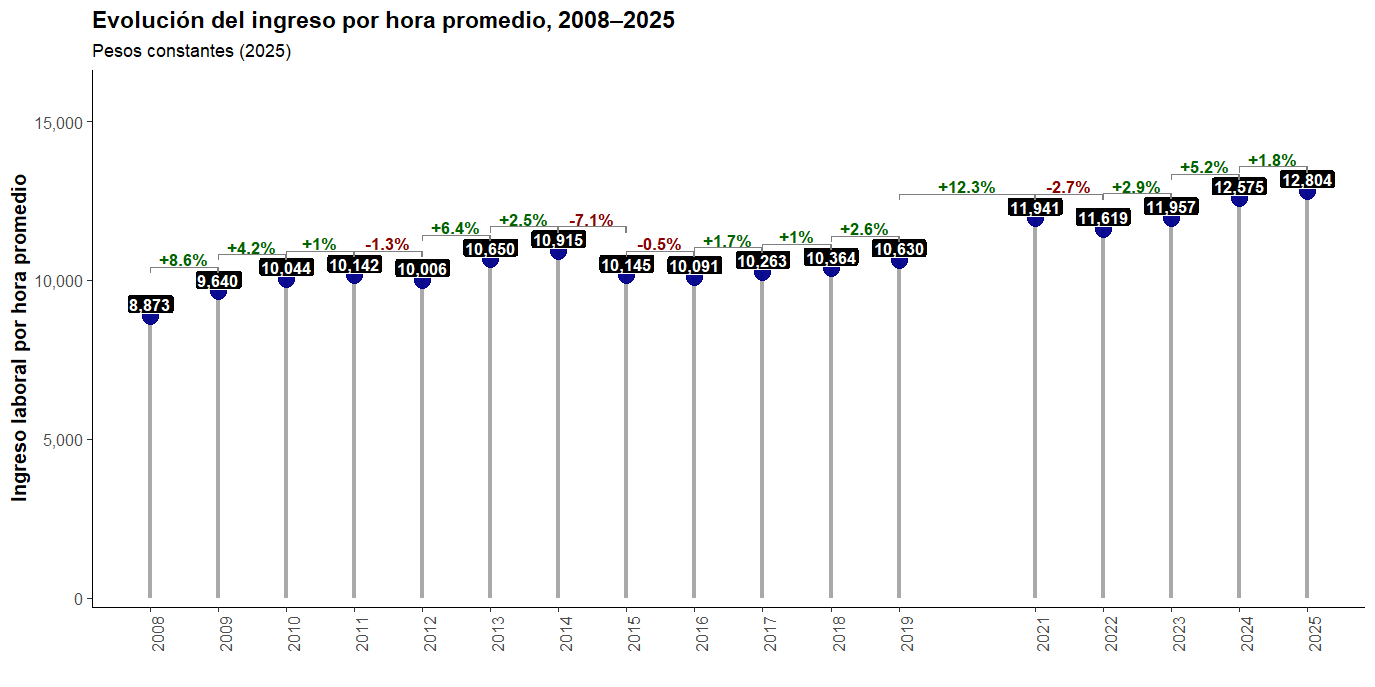
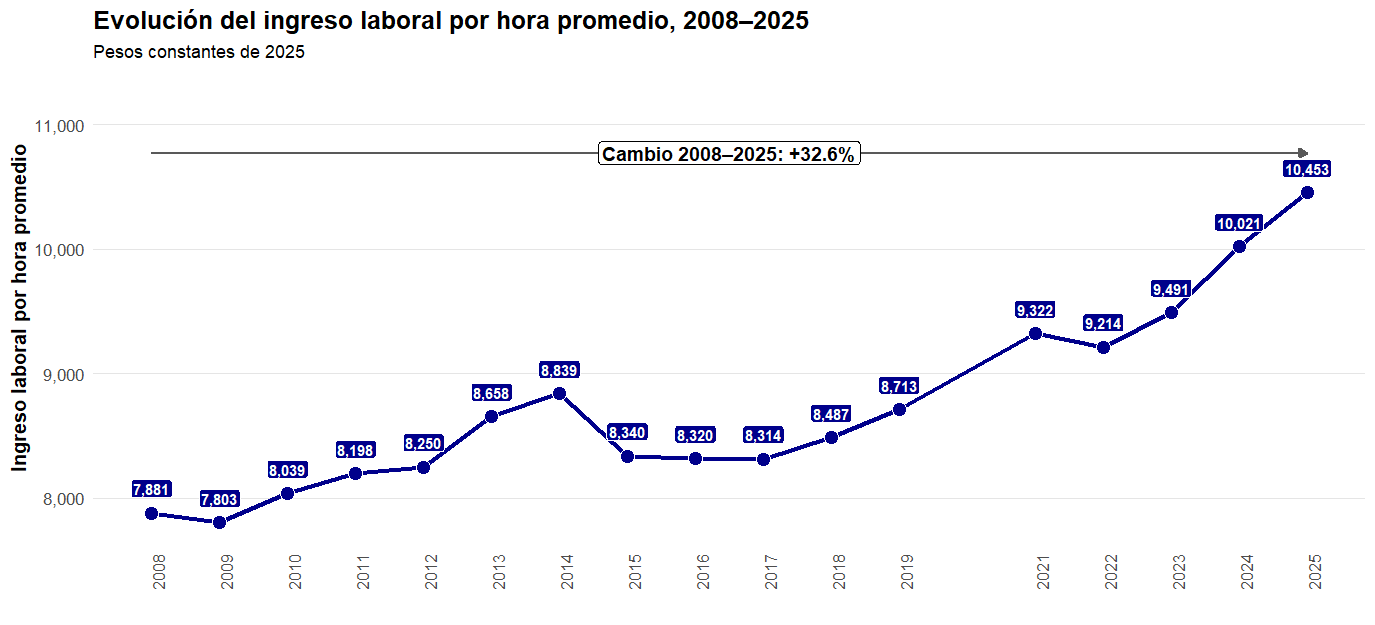
Minor edits

diff --git a/Paper/sections/CuerpoInforme.tex b/Paper/sections/CuerpoInforme.tex
@@ -1,0 +1,114 @@
+\newpage
+\section{Historia del mercado laboral colombiano}
+
+\begin{figure}[htbp]
+  \centering
+  \includegraphics[width=0.9\textwidth]{Paper/figures/fig1Informe.png}
+  \caption{Evolución general del ingreso laboral}
+  \label{fig:1Informe}
+\end{figure}
+
+El ingreso laboral promedio por hora pasó de $7.881 en 2008 a $10.453 en 2025, un aumento real del 32,6\%. Eso es una buena noticia: los trabajadores colombianos en promedio sí ganaron más poder adquisitivo a lo largo del período.
+Sin embargo, el camino no fue lineal. Hubo un primer ciclo de crecimiento hasta 2014, luego un estancamiento notable entre 2015 y 2019, y finalmente una aceleración importante a partir de 2021 que llevó los ingresos a sus niveles más altos del período. Este repunte reciente probablemente refleja una combinación de recuperación post-pandemia, ajustes al salario mínimo y cambios en la composición del empleo.
+
+\begin{figure}[htbp]
+  \centering
+  \includegraphics[width=0.9\textwidth]{Paper/figures/fig6Informe.png}
+  \caption{Ingreso laboral por nivel educativo}
+  \label{fig:2Informe}
+\end{figure}
+
+La educación sigue siendo el factor que más diferencia los ingresos. En 2025, un trabajador con nivel superior o universitario gana en promedio \$18.013 por hora, mientras que alguien sin ningún nivel educativo gana \$4.338, es decir, más de cuatro veces menos.
+Comparando 2008 con 2025, todos los niveles educativos muestran ganancias reales, lo cual es positivo. No obstante, hay un dato curioso: los trabajadores con nivel preescolar registraron una caída en su ingreso real (de \$7.642 en 2008 a \$4.541 en 2025). Esto probablemente refleja cambios en la composición de ese grupo más que un deterioro generalizado, pero vale la pena investigarlo más a fondo.
+La conclusión principal es que invertir en educación sigue siendo la palanca más poderosa para mejorar los ingresos laborales en Colombia.
+
+\begin{figure}[htbp]
+  \centering
+  \includegraphics[width=0.9\textwidth]{Paper/figures/fig7Informe.png}
+  \caption{Ingreso laboral por posición ocupacional}
+  \label{fig:3Informe}
+\end{figure}
+
+La posición que ocupa un trabajador dentro del mercado laboral también hace una diferencia enorme. En 2025, los empleados del gobierno son quienes mejor ganan (\$25.785 por hora), seguidos por los patrones o empleadores (\$22.291). En el extremo opuesto, los trabajadores domésticos y los cuenta propia tienen los ingresos más bajos, aunque todos los grupos muestran mejoras reales frente a 2008.
+Un dato destacado es el crecimiento del servicio doméstico: pasó de \$4.306 a \$6.506, un incremento de más del 50\% en términos reales. Esto posiblemente esté relacionado con los ajustes en la regulación laboral y los aumentos acumulados del salario mínimo durante el período.
+
+\begin{figure}[htbp]
+  \centering
+  \includegraphics[width=0.9\textwidth]{Paper/figures/fig4Informe.png}
+  \caption{Ingreso laboral por formalidad}
+  \label{fig:4Informe}
+\end{figure}
+
+\begin{figure}[htbp]
+  \centering
+  \includegraphics[width=0.9\textwidth]{Paper/figures/fig5Informe.png}
+  \caption{Brecha por formalidad}
+  \label{fig:5Informe}
+\end{figure}
+
+Esta es quizás una de las brechas más persistentes del mercado laboral colombiano. En 2025, un trabajador formal gana en promedio \$15.241 por hora, mientras que uno informal gana apenas \$6.271. Eso significa que los formales ganan aproximadamente 143\% más que los informales, una brecha que además ha crecido a lo largo del período (era del 113\% en 2008).
+Aunque el ingreso de los informales sí creció en términos reales (+11,1\%), lo hizo mucho más lentamente que el de los formales (+26,8\%). Esto sugiere que la formalización laboral no solo importa para el acceso a seguridad social, sino también para el nivel de ingresos.
+
+\begin{figure}[htbp]
+  \centering
+  \includegraphics[width=0.9\textwidth]{Paper/figures/fig11Informe.png}
+  \caption{Evolución informalidad laboral}
+  \label{fig:6Informe}
+\end{figure}
+
+En cuanto a la tasa de informalidad, hay una tendencia positiva: bajó del 66,9\% en 2008 al 55,1\% en 2025. Una reducción de casi 12 puntos porcentuales en 17 años es significativa, aunque el nivel sigue siendo muy alto. Más de la mitad de los trabajadores colombianos aún no cotiza a pensión.
+
+\begin{figure}[htbp]
+  \centering
+  \includegraphics[width=0.9\textwidth]{Paper/figures/fig9Informe.png}
+  \caption{Ingreso laboral por sector económico}
+  \label{fig:7Informe}
+\end{figure}
+
+Existe una marcada división entre sectores de altos y bajos ingresos. En la parte alta se encuentran los sectores extraterritoriales, información y comunicaciones, administración pública, financiero y educación. En la parte baja, sectores como agricultura, hogares empleadores, alojamiento y construcción.
+El sector de información y comunicaciones es el que más creció: casi triplicó su ingreso real entre 2008 y 2025 (de \$7.754 a \$21.868). Esto refleja la expansión de la economía digital y la creciente demanda de talento tecnológico, y es una señal clara de hacia dónde apunta el futuro del trabajo en Colombia.
+La agricultura, por su parte, sigue siendo el sector de menores ingresos, con apenas \$6.080 por hora en 2025.
+
+\begin{figure}[htbp]
+  \centering
+  \includegraphics[width=0.9\textwidth]{Paper/figures/fig8Informe.png}
+  \caption{Ingreso laboral por departamento}
+  \label{fig:8Informe}
+\end{figure}
+
+Las brechas regionales son evidentes. Bogotá D.C. lidera con un ingreso promedio de \$15.904 por hora en 2025, seguida por Antioquia (\$11.791) y Valle del Cauca (\$10.572). En el extremo opuesto, departamentos como Córdoba, Nariño y Bolívar tienen los ingresos más bajos, aunque todos registraron ganancias reales frente a 2008.
+Un dato interesante es que Caldas muestra uno de los mayores crecimientos proporcionales del período, lo que podría estar relacionado con su dinámica agroindustrial y de servicios. Las brechas entre el centro del país y las regiones periféricas persisten y son un desafío estructural importante.
+
+\newpage
+\begin{figure}[htb]
+  \centering
+  \includegraphics[width=0.9\textwidth]{Paper/figures/fig10Informe.png}
+  \caption{Ingreso laboral por tamaño de empresa}
+  \label{fig:9Informe}
+\end{figure}
+
+Como era de esperarse, las empresas más grandes pagan mejor. En 2025, las empresas de más de 100 empleados ofrecen un ingreso promedio de \$17.076 por hora, mientras que los trabajadores que laboran solos apenas alcanzan \$6.674.
+Hay además un cambio estructural relevante entre 2008 y 2025: la participación del empleo en empresas muy pequeñas (solo y 2-3 personas) cayó, mientras que la de las empresas grandes (101+) aumentó del 19\% al 25\%. Esto podría ser una señal positiva de consolidación empresarial, aunque también puede reflejar la formalización de sectores que antes operaban en la informalidad.
+
+\begin{figure}[htb]
+  \centering
+  \includegraphics[width=0.9\textwidth]{Paper/figures/fig2Informe.png}
+  \caption{Brecha de género}
+  \label{fig:10Informe}
+\end{figure}
+
+\begin{figure}[htb]
+  \centering
+  \includegraphics[width=0.9\textwidth]{Paper/figures/fig3Informe.png}
+  \caption{Brecha de género porcentual}
+  \label{fig:11Informe}
+\end{figure}
+
+Una de las noticias más llamativas del período es la evolución de la brecha salarial por género. En 2008, los hombres ganaban en promedio un 1,4\% más que las mujeres por hora. Para 2025, esa relación se invirtió: las mujeres ganan un 1,2\% más que los hombres.
+
+\section{Conclusión}
+El mercado laboral colombiano entre 2008 y 2025 muestra un panorama de progreso real pero desigual. Los ingresos crecieron en términos generales, la informalidad bajó y la brecha de género prácticamente desapareció. Esas son ganancias concretas que no deben subestimarse.
+
+Sin embargo, persisten desafíos estructurales importantes. La brecha entre trabajadores formales e informales se amplió. Las diferencias regionales siguen siendo grandes. Y aunque todos los sectores mejoraron, los trabajadores en actividades de baja productividad, como agricultura o trabajo doméstico, siguen muy lejos de los ingresos del resto.
+
+La historia que cuentan estas cifras es la de un mercado laboral que avanza, pero que aún tiene una deuda pendiente con millones de trabajadores que, pese a trabajar, no acceden a condiciones laborales dignas ni a los beneficios de la seguridad social.

diff --git a/Paper/sections/results.tex b/Paper/sections/results.tex
@@ -64,22 +64,8 @@ This does not mean, however, that the formal sector is irrelevant for the interp
   \label{fig:firm-size-formality-premium}
 \end{figure}
 
-Figure~\ref{fig:adjusted-formality-endpoints} provides the closest
-regression-adjusted counterpart to
-Figure~\ref{fig:income-formality-comparison}. The y-axis is the adjusted percent
-premium relative to solo workers within the same formality-year group, rather
-than an adjusted wage level. This normalization avoids choosing arbitrary
-covariate values and makes the comparison with the solo-worker benchmark
-explicit. Among formal workers, the raw U-shape largely disappears after
-controls: in 2025, the adjusted estimates for all categories below 101+ range
-from -3.7 to 0.6 percent, and the 101+ estimate is 10.5 percent with a
-confidence interval that includes zero. The 2008 formal profile is similar.
-Among informal workers, by contrast, the adjusted gradient remains steep and
-statistically significant: in 2025, the premium rises from 24.3 percent in firms
-with 2--3 workers to 53.6 percent in firms with 101 or more workers. Thus, the
-descriptive U-shape among formal workers appears to be driven mainly by worker
-composition within formal solo work, while the
-informal firm-size premium survives the controls. %This conclusion concerns the comparison with solo workers; Table~\ref{tab:formal-101-contrasts} turns to the separate comparison between large formal firms and the middle of the formal firm-size distribution.
+Figure~\ref{fig:adjusted-formality-endpoints} provides the regression-adjusted counterpart to Figure~\ref{fig:income-formality-comparison}. The y-axis is the adjusted percent premium relative to solo workers within the same formality-year group. Among formal workers, the raw U-shape largely disappears after controls: in 2025, the adjusted estimates for all categories below 101+ range from -3.7 to 0.6 percent, and the 101+ estimate is 10.5 percent with a confidence interval that includes zero. The 2008 formal profile is similar. Among informal workers, by contrast, the adjusted gradient remains steep and statistically significant: in 2025, the premium rises from 24.3 percent in firmswith 2--3 workers to 53.6 percent in firms with 101 or more workers. Thus, the descriptive U-shape among formal workers appears to be driven mainly by worker
+composition within formal solo work, while the informal firm-size premium survives the controls. %This conclusion concerns the comparison with solo workers; Table~\ref{tab:formal-101-contrasts} turns to the separate comparison between large formal firms and the middle of the formal firm-size distribution.
 
 \begin{figure}[htbp]
   \centering

diff --git a/Paper/informe.tex b/Paper/informe.tex
@@ -27,8 +27,12 @@
 \maketitle
 
 \section*{Resumen ejecutivo}
+Colombia registró avances importantes en su mercado laboral entre 2008 y 2025. El ingreso laboral real por hora creció un 32,6\%, la tasa de informalidad cayó casi 12 puntos porcentuales, y la brecha salarial de género prácticamente desapareció. Sin embargo, persisten desafíos estructurales relevantes: la brecha entre trabajadores formales e informales se amplió, las diferencias regionales siguen siendo marcadas, y más de la mitad de los trabajadores colombianos aún no cotiza a pensión. El mercado laboral avanza, pero de forma desigual.
 
-Escriba aqui los principales mensajes del informe.
+\input{Paper/sections/introductionInforme}
+
+\input{Paper/sections/CuerpoInforme}
+
 
 
 \bibliographystyle{apalike}

diff --git a/Paper/sections/introductionInforme.tex b/Paper/sections/introductionInforme.tex
@@ -1,0 +1,5 @@
+\section{Introducción}
+
+Entre 2008 y 2025, el mercado laboral colombiano atravesó transformaciones importantes. Este informe analiza cómo evolucionaron los ingresos laborales por hora a lo largo de casi dos décadas, examinando qué grupos de trabajadores se beneficiaron más, cuáles quedaron rezagados y qué tendencias estructurales marcaron el período.
+
+La motivación es sencilla: entender si los colombianos que trabajan hoy ganan más en términos reales que hace 17 años, y si esas ganancias fueron distribuidas de forma equitativa entre distintos grupos de la población. Los datos provienen de encuestas de hogares y están expresados en pesos constantes de 2025, lo que permite comparaciones reales descontando el efecto de la inflación.
